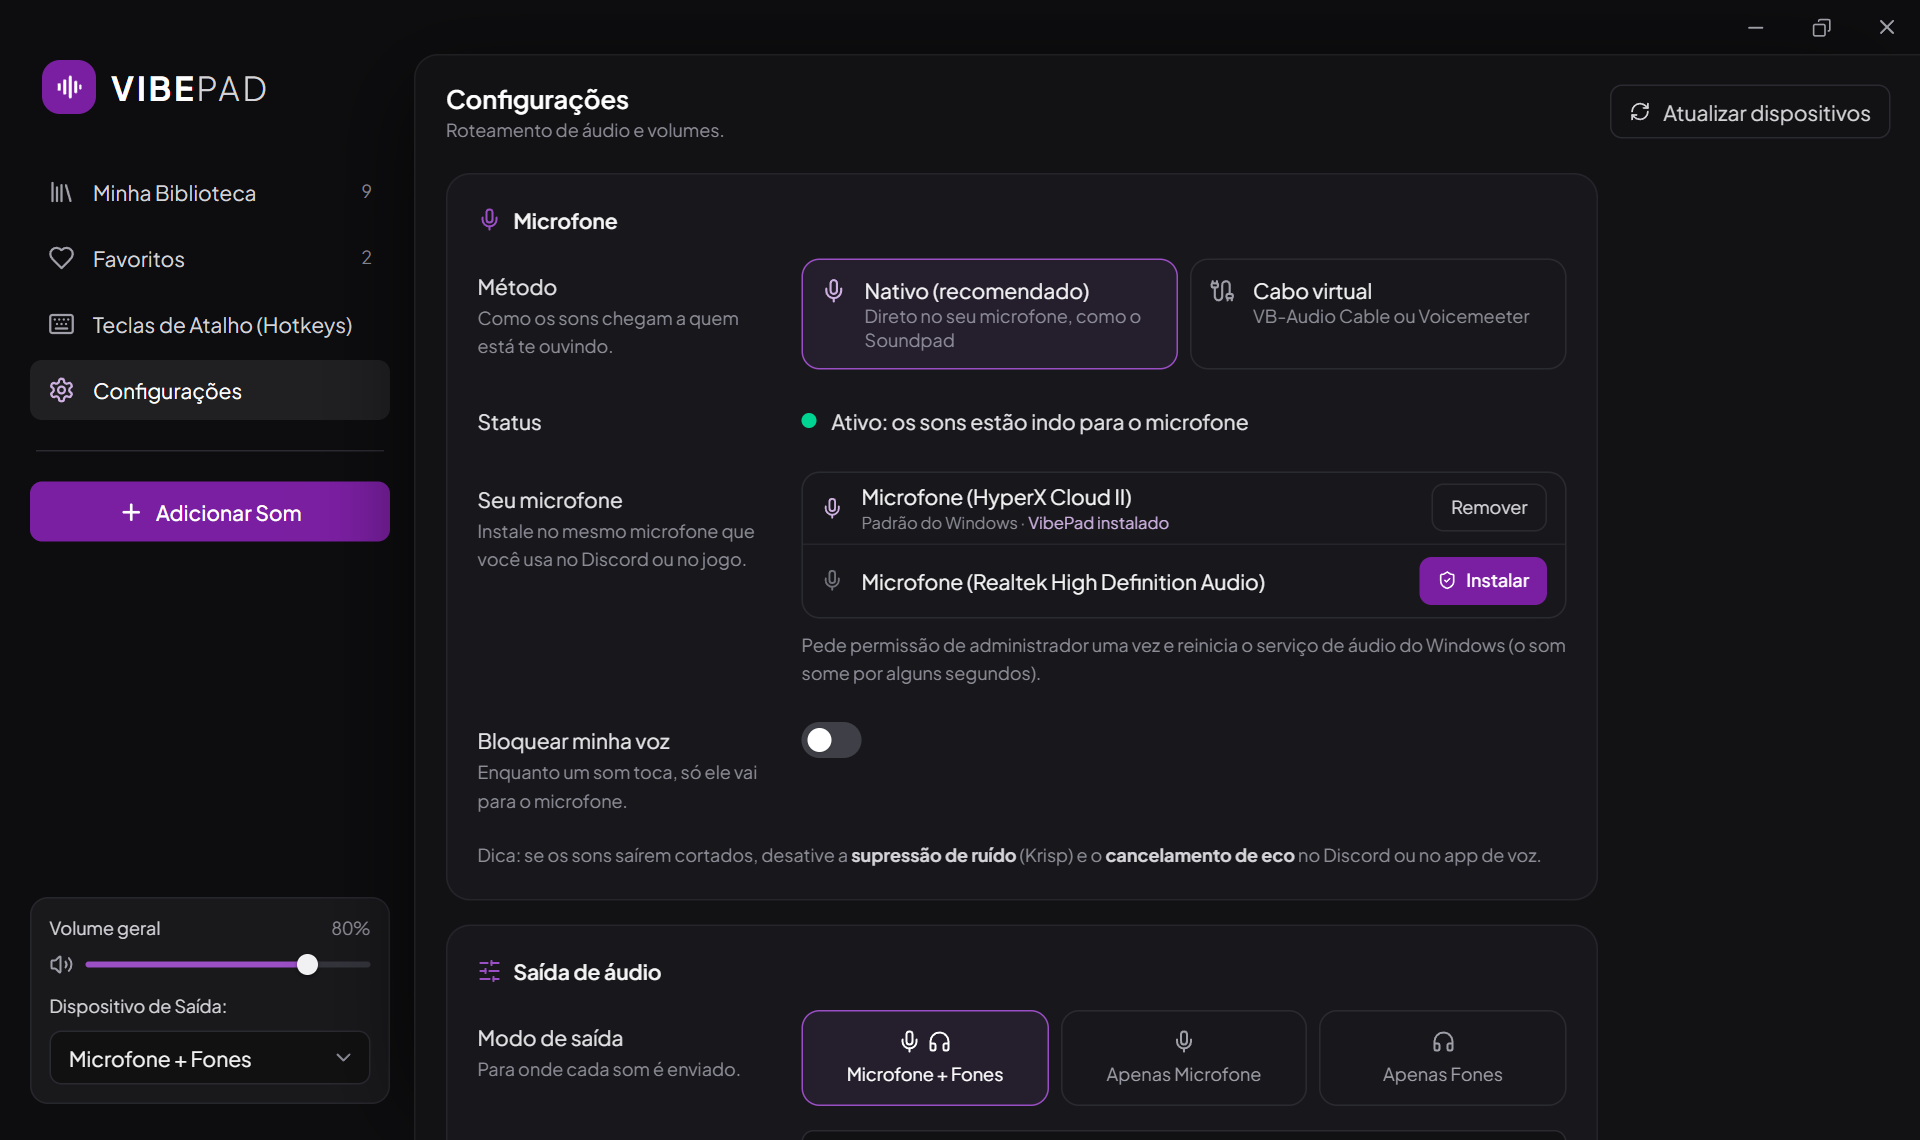
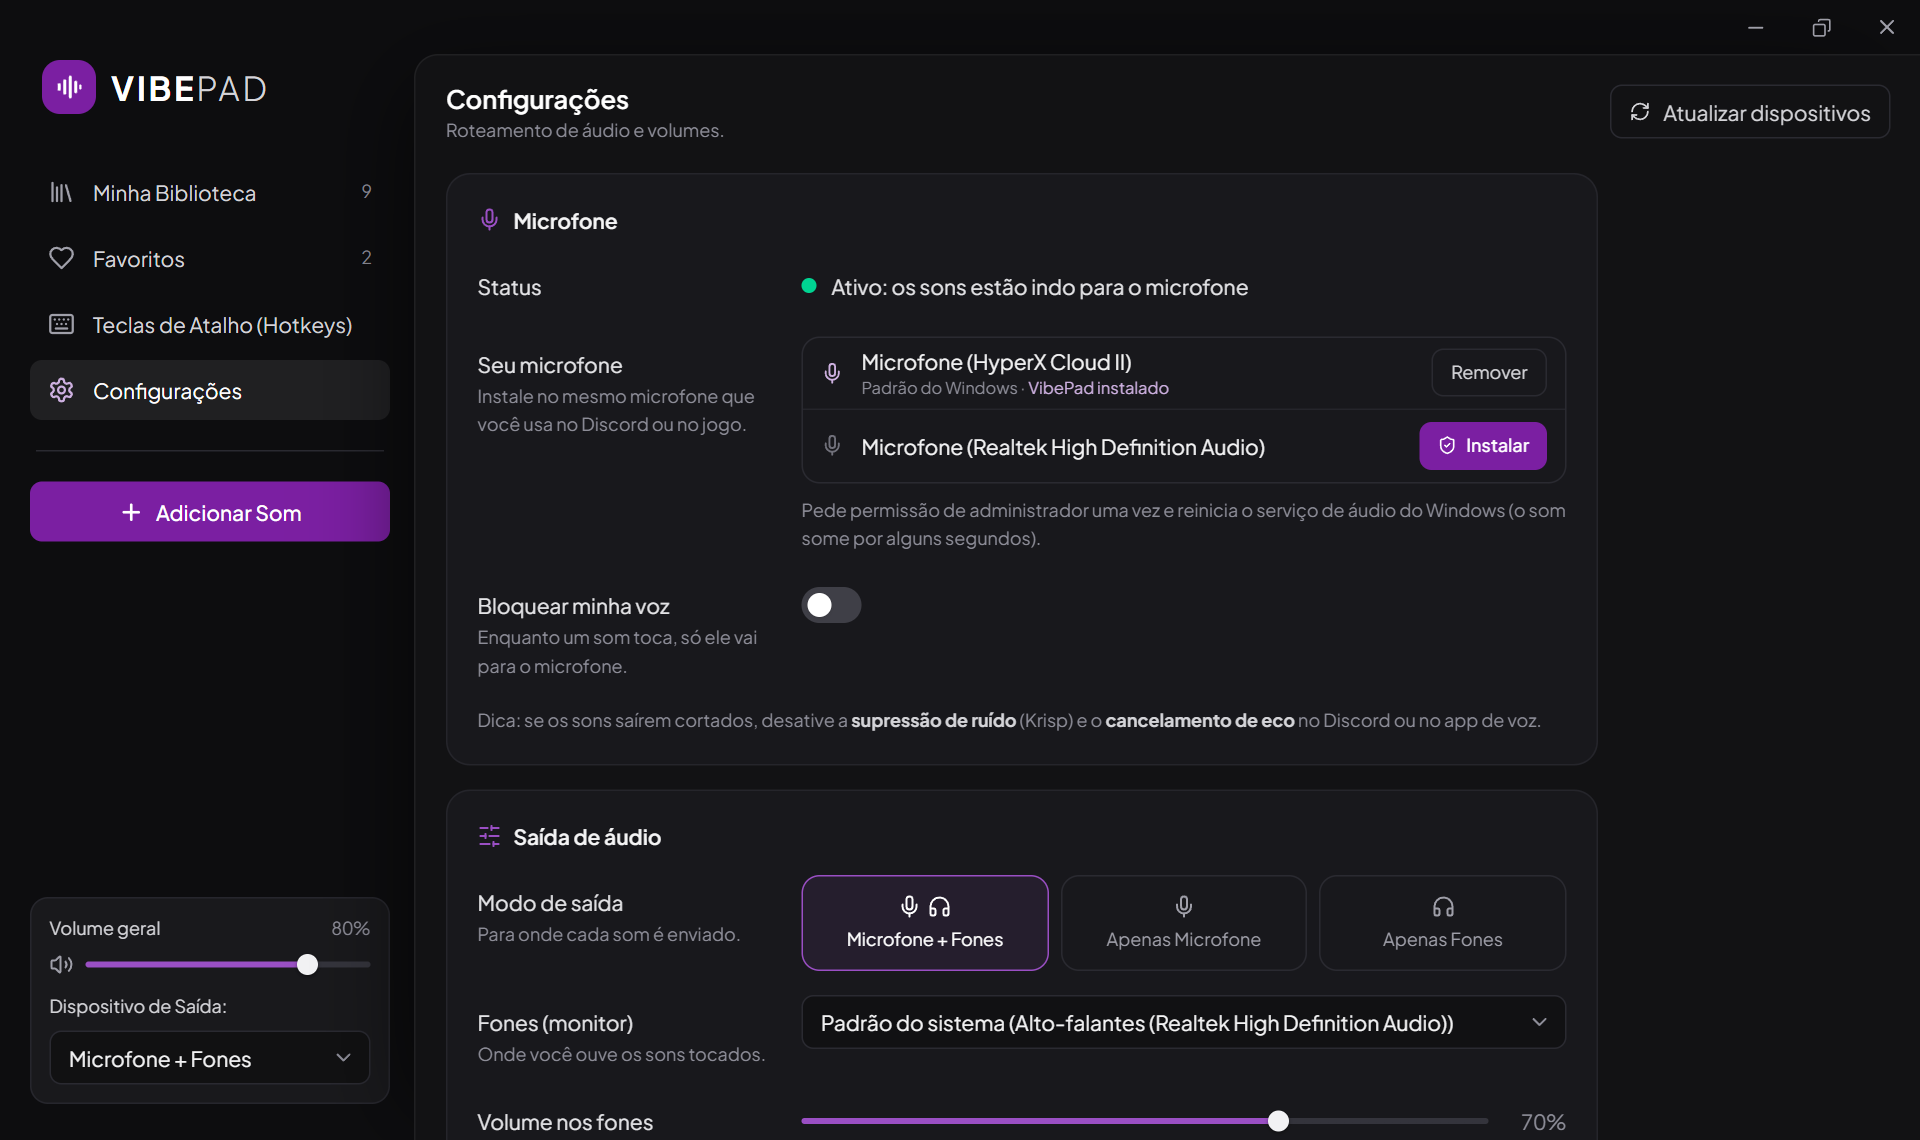
Remove a opção de cabo virtual das Configurações
A seção Microfone passa a mostrar só o microfone nativo, sem a escolha
de método. Quem tinha o cabo virtual salvo volta para o nativo ao abrir
o app, para não ficar preso numa opção que não aparece mais. O suporte
no back-end continua lá.

Atualiza também o print das configurações no README.

diff --git a/src/components/MicCard.tsx b/src/components/MicCard.tsx
@@ -1,60 +1,24 @@
 import { useCallback, useEffect, useState } from "react";
-import { Cable, Loader2, Mic, ShieldCheck } from "lucide-react";
+import { Loader2, Mic, ShieldCheck } from "lucide-react";
 import { api, errorMessage } from "../lib/api";
-import type { DeviceInfo, MicBackend, NativeMicState, Settings } from "../lib/types";
-import { Card, Field, Select, Toggle } from "./ui";
+import type { NativeMicState, Settings } from "../lib/types";
+import { Card, Field, Toggle } from "./ui";
 
 interface Props {
   settings: Settings;
-  devices: DeviceInfo[];
   onSettings: (patch: Partial<Settings>) => void;
   onNotify: (kind: "success" | "error", message: string) => void;
 }
 
-const AUTO = "__auto__";
-
-const BACKENDS: { value: MicBackend; title: string; description: string; icon: React.ReactNode }[] = [
-  { value: "native", title: "Nativo (recomendado)", description: "Direto no seu microfone, como o Soundpad", icon: <Mic size={17} /> },
-  { value: "virtualCable", title: "Cabo virtual", description: "VB-Audio Cable ou Voicemeeter", icon: <Cable size={17} /> },
-];
-
-export function MicCard({ settings, devices, onSettings, onNotify }: Props) {
-  const native = settings.micBackend === "native";
-
+export function MicCard({ settings, onSettings, onNotify }: Props) {
   return (
     <Card title="Microfone" icon={<Mic size={16} />}>
-      <Field label="Método" hint="Como os sons chegam a quem está te ouvindo.">
-        <div className="grid grid-cols-2 gap-2">
-          {BACKENDS.map((b) => (
-            <button
-              key={b.value}
-              onClick={() => onSettings({ micBackend: b.value })}
-              className={`rounded-xl border px-3 py-2.5 text-left flex gap-3 items-start transition-colors ${
-                settings.micBackend === b.value
-                  ? "border-accent bg-accent/10"
-                  : "border-line hover:border-zinc-600"
-              }`}
-            >
-              <span className={settings.micBackend === b.value ? "text-accent-soft mt-0.5" : "text-zinc-400 mt-0.5"}>{b.icon}</span>
-              <span>
-                <span className="block text-sm text-zinc-100">{b.title}</span>
-                <span className="block text-xs text-muted">{b.description}</span>
-              </span>
-            </button>
-          ))}
-        </div>
-      </Field>
-
-      {native ? (
-        <NativeMicSection settings={settings} onSettings={onSettings} onNotify={onNotify} />
-      ) : (
-        <VirtualCableSection settings={settings} devices={devices} onSettings={onSettings} />
-      )}
+      <NativeMicSection settings={settings} onSettings={onSettings} onNotify={onNotify} />
     </Card>
   );
 }
 
-function NativeMicSection({ settings, onSettings, onNotify }: Omit<Props, "devices">) {
+function NativeMicSection({ settings, onSettings, onNotify }: Props) {
   const [state, setState] = useState<NativeMicState | null>(null);
   const [busy, setBusy] = useState<string | null>(null);
 
@@ -157,30 +121,5 @@ function NativeMicSection({ settings, onSettings, onNotify }: Omit<Props, "devic
         <b className="text-zinc-300">cancelamento de eco</b> no Discord ou no app de voz.
       </p>
     </>
-  );
-}
-
-function VirtualCableSection({ settings, devices, onSettings }: Omit<Props, "onNotify">) {
-  const detected = devices.find((d) => d.isVirtual);
-  const missing = !(settings.micDevice ? devices.some((d) => d.name === settings.micDevice) : detected);
-  return (
-    <Field label="Cabo virtual" hint={<>Dispositivo que alimenta o microfone (ex.: <b>CABLE Input</b>).</>}>
-      <Select label="Cabo virtual" value={settings.micDevice ?? AUTO} onChange={(v) => onSettings({ micDevice: v === AUTO ? null : v })}>
-        <option value={AUTO}>Detectar automaticamente{detected ? ` (${detected.name})` : ""}</option>
-        {devices.map((d) => (
-          <option key={d.name} value={d.name}>
-            {d.name}
-          </option>
-        ))}
-      </Select>
-      {missing && (
-        <p className="text-xs text-amber-300 mt-2 leading-relaxed">
-          Nenhum cabo virtual encontrado. Instale o VB-Audio Virtual Cable ou use o método nativo.
-        </p>
-      )}
-      <p className="text-xs text-muted mt-2 leading-relaxed">
-        No Discord ou no jogo, escolha <b className="text-zinc-300">CABLE Output</b> como microfone.
-      </p>
-    </Field>
   );
 }

diff --git a/src/App.tsx b/src/App.tsx
@@ -221,6 +221,12 @@ export default function App() {
     [commitSettings],
   );
 
+  // O cabo virtual saiu das Configurações: quem tinha ele salvo volta para o
+  // microfone nativo, senão ficaria preso numa opção que não aparece mais.
+  useEffect(() => {
+    if (settings?.micBackend === "virtualCable") updateSettings({ micBackend: "native" });
+  }, [settings?.micBackend, updateSettings]);
+
   const editStopHotkey = () =>
     setRecording({ soundId: null, label: "Parar todos os sons", current: settings?.stopHotkey ?? null });
 

diff --git a/src/components/SettingsView.tsx b/src/components/SettingsView.tsx
@@ -30,7 +30,7 @@ export function SettingsView({ settings, devices, onSettings, onRefreshDevices, 
       </div>
 
       <div className="space-y-4 max-w-3xl">
-        <MicCard settings={settings} devices={devices} onSettings={onSettings} onNotify={onNotify} />
+        <MicCard settings={settings} onSettings={onSettings} onNotify={onNotify} />
 
         <Card title="Saída de áudio" icon={<SlidersHorizontal size={16} />}>
           <Field label="Modo de saída" hint="Para onde cada som é enviado.">
